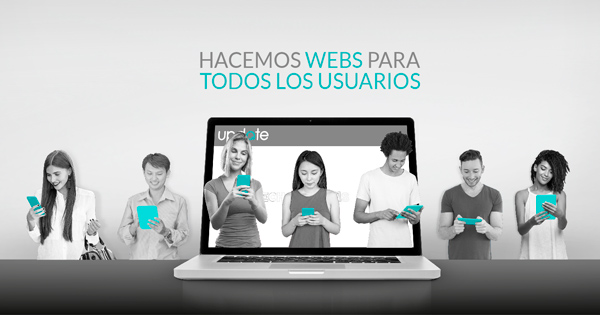
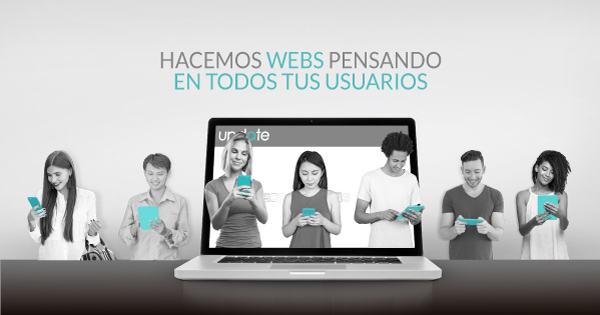
Cambios semifinales

diff --git a/email2018.html b/email2018.html
@@ -36,7 +36,7 @@
 							<tbody>
 							<tr>
 								<td align="center">
-<img src="http://www.update.pe/mailing2018/web2018.jpg" width="600px" style="height: auto; margin-top: -18px;">
+<img src="diseñoweb2018.jpg" width="600px" style="height: auto; margin-top: -18px;">
 									<p style="	width: 390px;
 												height: 30px;
 												font-family: Helvetica;
@@ -60,20 +60,33 @@
 													color: #000000; 
 													padding-left: 20px; 
 													padding-right: 20px;">
-											<p>Esperando que todo se encuentre muy bien en tu negocio, nos dirigimos a ti con motivo de presentarte a <a style="font-size: 15px;
+											<p>Hola!<p/> <p>Te saludamos de <a href="http://www.update.pe" style="font-size: 15px;
 											font-weight: bold;
-											color: #35d4d3;">Te lo llevas ya!</a>, importador de Smartphones y Celulares que brinda las mejores condiciones del mercado.<br><br>
-												Te invitamos a formar parte de nuestra red comercial y beneficiarte de esta <b>gran oportunidad de negocio.</b><br><br>
-												Para mayor información puedes <b>responder a este email</b> o comunicarte al <b>934244258<b> (Whatsapp).<br><br>
-												También puedes visitar nuestra tienda en:<br><br>
-												<b>Calle Martín de Murúa 150 Ofic. 901 - San Miguel, Lima</b></p>
+											color: #35d4d3;">Update Global Marketing</a>, somos un equipo conformado por Desarrolladores de apps web, Ingenieros de sistemas,  y marketeros muy hábiles con más de 15 años de experiencia profesional en:<br>
+											<ul>
+												<li><a style="font-size: 15px; font-weight: bold; color: #35d4d3;">Webs que venden:</a> Desarrollo identidad digital, Sitios y páginas webs con User Experience (Corporativos, Landing pages, One page, Actualizacion de diseño, etc)
+												</li>
+												<li><a style="font-size: 15px; font-weight: bold; color: #35d4d3;">Tiendas Online vendedoras:</a> Desarrollo de Ecommerce (A medida, Woo Commerce, Prestashop)
+												</li>
+												<li><a style="font-size: 15px; font-weight: bold; color: #35d4d3;">Apps que enganchan:</a> Desarrollo de Mobile Apps (IOS, ANDROID, Progressive web app, etc) Desarrollo de Software (PHP MySQL Development, PHP Frameworks, JavaScript, etc)
+												</li>
+												<li><a style="font-size: 15px; font-weight: bold; color: #35d4d3;">Producir magia:</a> Programación de servicios web(PHP MySQL Development, PHP Frameworks, JavaScript Frameworks etc)
+												</li>
+												<li><a style="font-size: 15px; font-weight: bold; color: #35d4d3;">Hacer las cosas fáciles:</a> Desarrollo de webs Gestionables ( a medida, Wordpress, Joomla, Drupal)
+												</li>
+											</ul>
+												
+												Para mayor información puedes <b>responder a este email</b> o comunicarte al <b>934244258</b> (Whatsapp). También puedes visitar nuestro trabajo en el website: <a href="http://www.update.pe" style="font-size: 15px;
+											font-weight: bold;
+											color: #35d4d3;">update.pe</a>. Échale un vistazo a nuestras redes. <b>Están super interesantes:</b>
+												</p>
 										</td>
 									</tr>
 									<tr>
 										<td>
 											<ul style="display: inline-flex; margin-left: -92px;"> 
-												<ol><a href="https://www.facebook.com/updatemarketing/" ><img src="iconface.png" style="width: 40px; height: 40px;"></a> </ol>
 												<ol> <a href="https://www.behance.net/ventas326d"><img src="icobehance.png" style="width: 40px; height: 40px;"></a></ol>
+												<ol><a href="https://www.facebook.com/updatemarketing/" ><img src="iconface.png" style="width: 40px; height: 40px;"></a> </ol>
 											</ul>
 											
 										</td>
